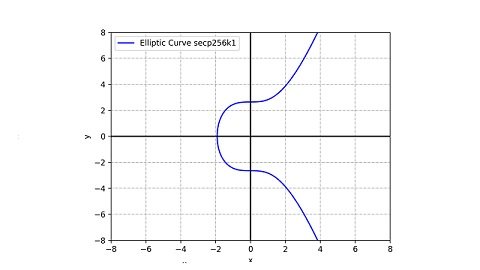
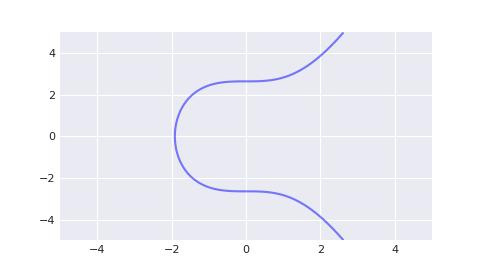
2025-02-19 16:10:05

diff --git a/docs/content/python/matplotlib.md b/docs/content/python/matplotlib.md
@@ -49,7 +49,7 @@ plt.style.use('seaborn')
 x = np.linspace(-np.pi, np.pi, 256)
 y = np.sin(x)
 
-plt.plot(x, np.sin(x))
+plt.plot(x, y)
 plt.show()
 ```
 
@@ -446,24 +446,19 @@ plt.show()
 
 **Secp256k1 椭圆曲线**
 
-定义: y<sup>2</sup> = x<sup>3</sup> + 7
+定义: y² = x³ + 7
 
 ```py
-import numpy as np
 import matplotlib.pyplot as plt
-plt.style.use('seaborn')
+import numpy as np
 
-fig = plt.subplot()
+plt.style.use('seaborn-v0_8-darkgrid')
+plt.figure(figsize=(4.8, 2.7))
+plt.xticks(fontsize=8)
+plt.yticks(fontsize=8)
+
 y, x = np.ogrid[-5:5:100j, -5:5:100j]
-fig.contour(x.ravel(), y.ravel(), y**2 - x**3 - 7, [0])
-
-fig.spines['bottom'].set_color('#646882')
-fig.spines['bottom'].set_linewidth(1)
-fig.spines['bottom'].set_position(('data', 0))
-fig.spines['left'].set_color('#646882')
-fig.spines['left'].set_linewidth(1)
-fig.spines['left'].set_position(('data', 0))
-
+plt.contour(x.ravel(), y.ravel(), y**2 - x**3 - 7, [0], colors='blue', alpha=0.5)
 plt.show()
 ```
 
